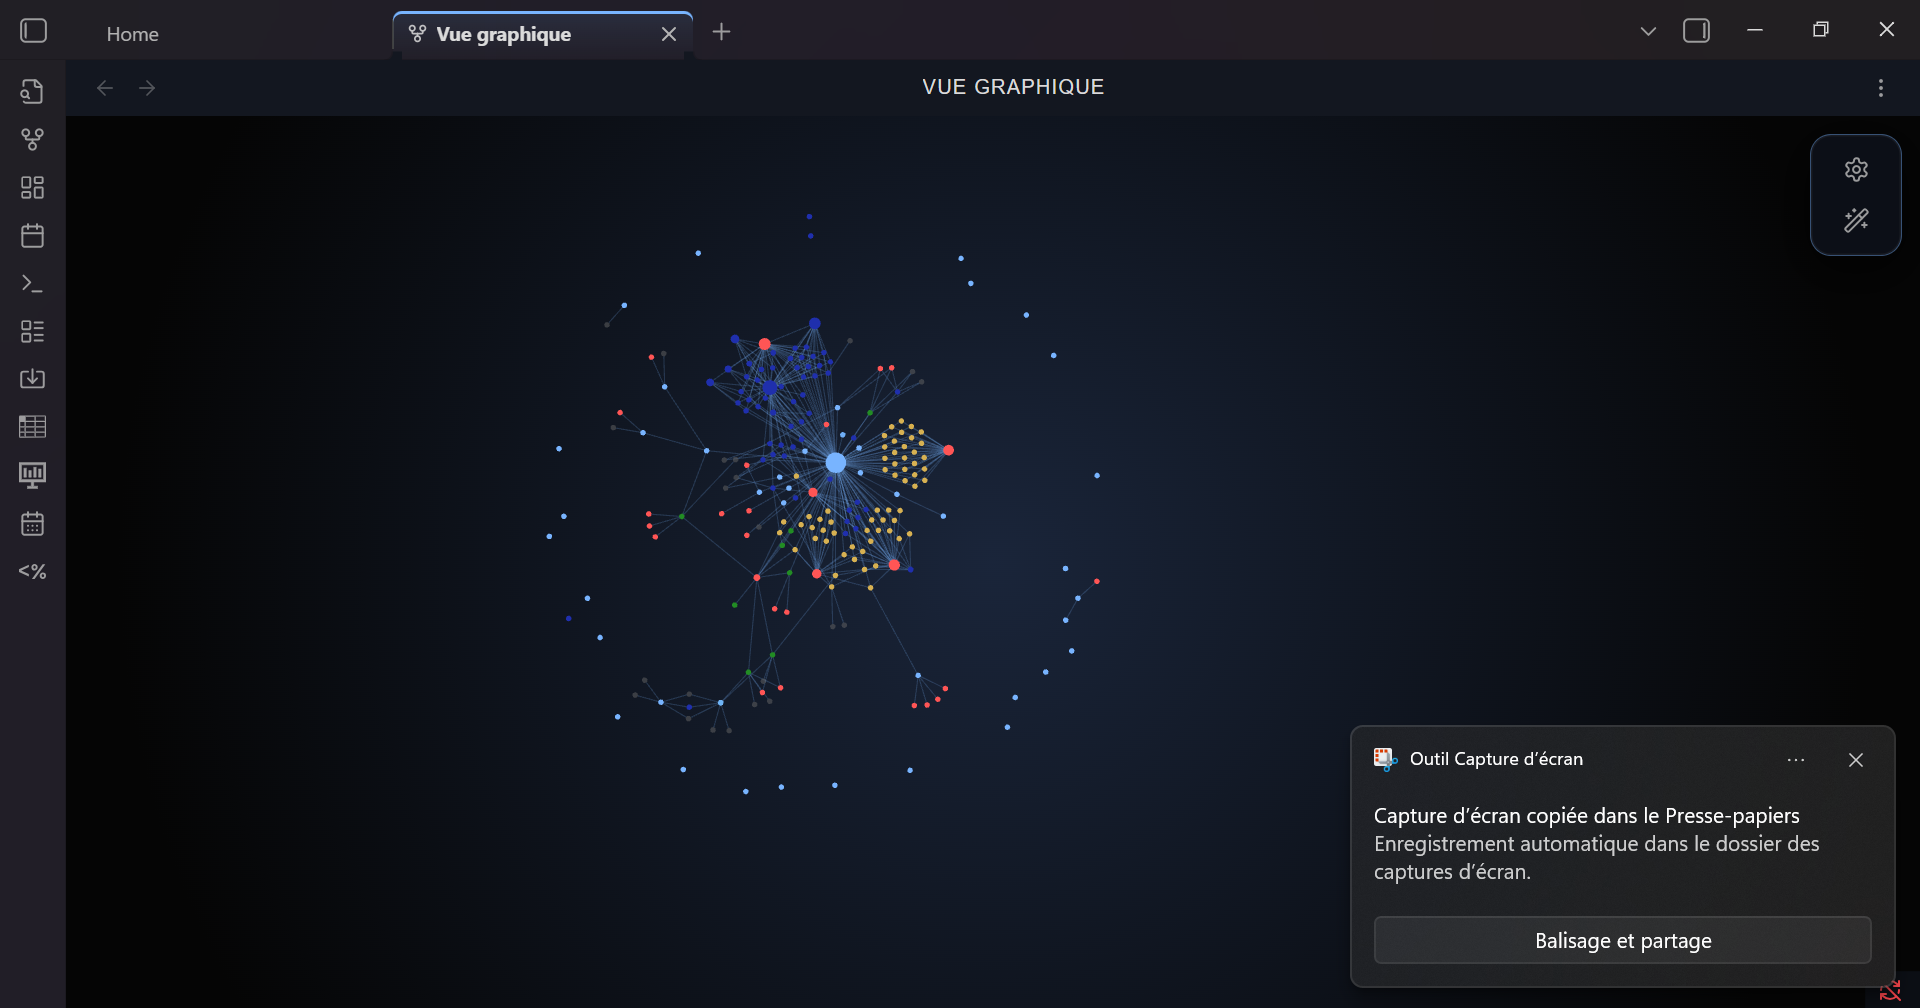
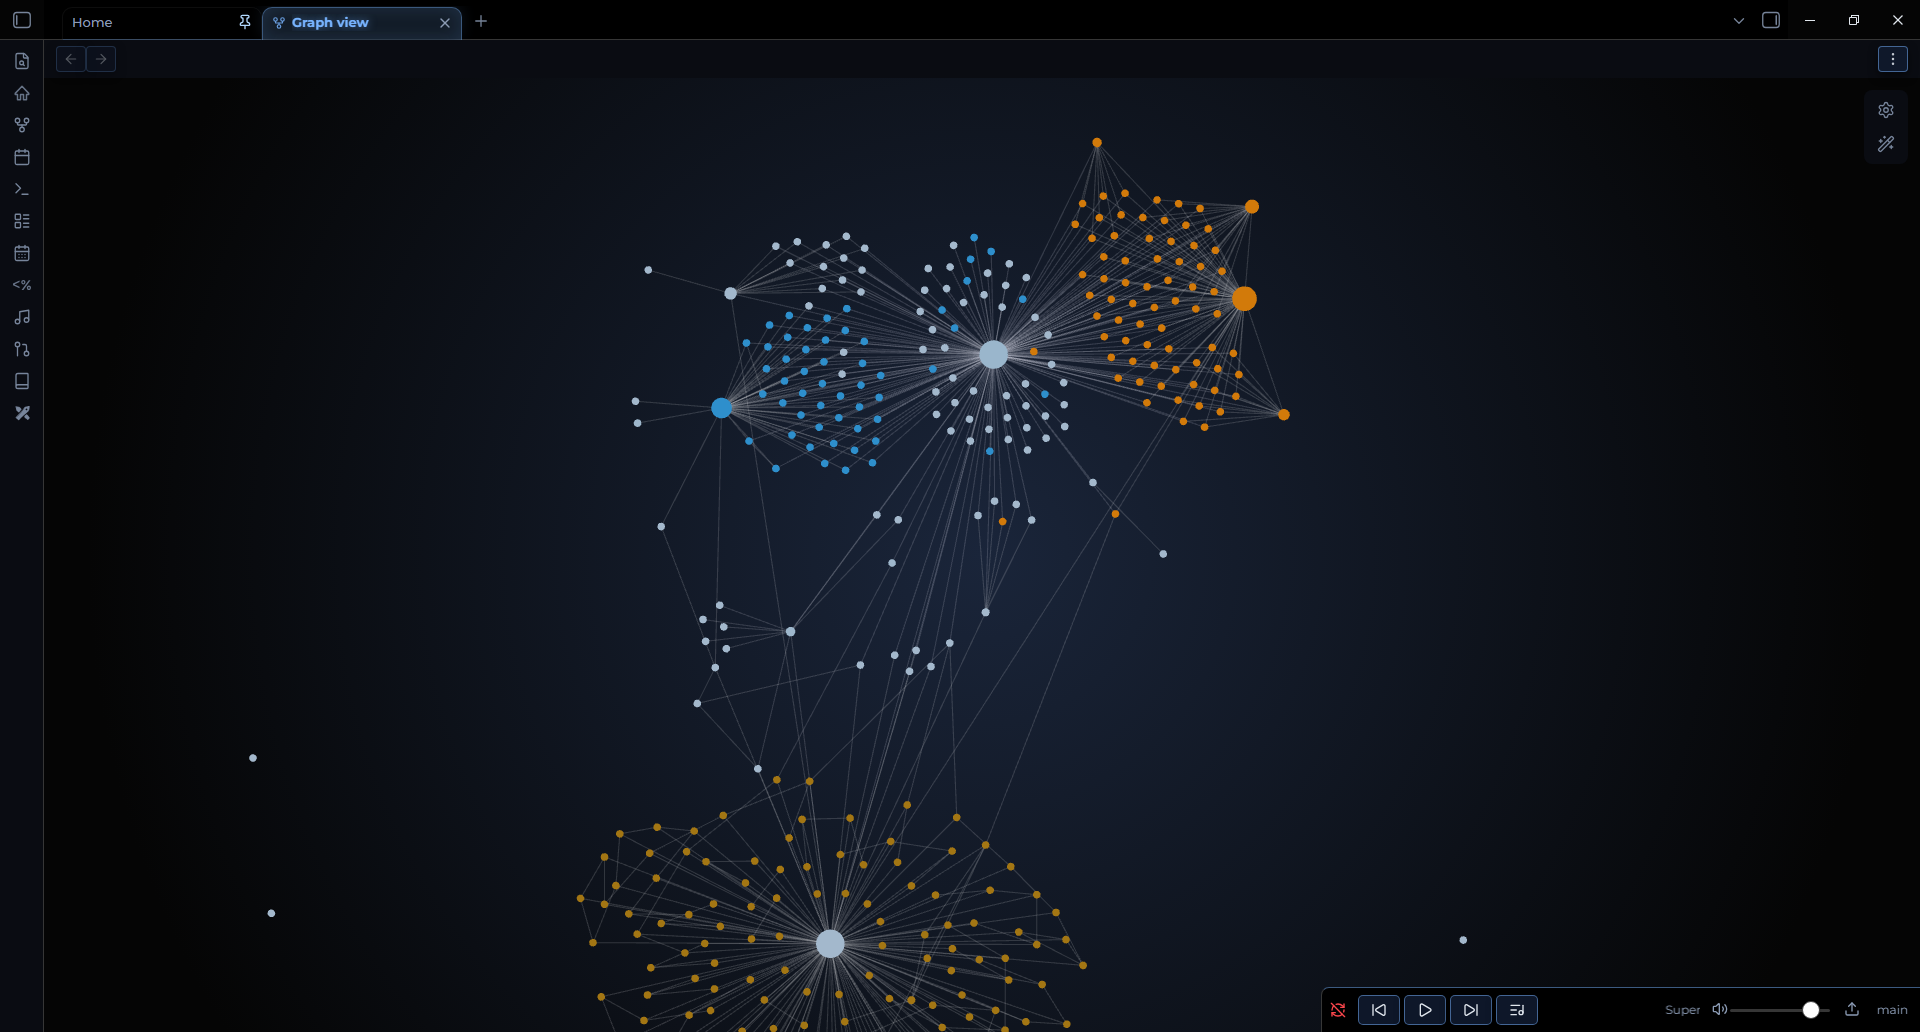
ASCII Art Addes in CSS Code.

diff --git a/theme.css b/theme.css
@@ -1,14 +1,22 @@
-/* =================================================================
-   🌌 GALAXY MASTER HUD - ULTIMATE EDITION (v3.5 - REBORN)
-   ================================================================= */
+/** ---------------------------------------------------------------
+**  ███╗   ██╗███████╗██████╗ ██╗   ██╗██╗     ██╗   ██╗██╗  ██╗
+**  ████╗  ██║██╔════╝██╔══██╗██║   ██║██║     ██║   ██║╚██╗██╔╝
+**  ██╔██╗ ██║█████╗  ██████╔╝██║   ██║██║     ██║   ██║ ╚███╔╝ 
+**  ██║╚██╗██║██╔══╝  ██╔══██╗██║   ██║██║     ██║   ██║ ██╔██╗ 
+**  ██║ ╚████║███████╗██████╔╝╚██████╔╝███████╗╚██████╔╝██╔╝ ██╗
+**  ╚═╝  ╚═══╝╚══════╝╚═════╝  ╚═════╝ ╚══════╝ ╚═════╝ ╚═╝  ╚═╝
+**  —— Version 1.0.0
+**  —— Made with ✨ by @Sikoso774
+**  —— Changes Log @see: https://github.com/Sikoso774/Nebulux/blob/main/CHANGELOG.md
+**  --------------------------------------------------------------- */
 
 /* @settings
-name: Galaxy Master HUD
-id: hud-galaxy-master
+name: Nebulux
+id: nebulux-hud
 settings:
     - 
         id: ui-title
-        title: 🖥️ Interface & Ambiance
+        title: 🖥️ Nebulux Interface
         type: heading
         level: 1
     - 
@@ -228,7 +236,7 @@ body {
     color: var(--text-muted) !important;
 }
 
-/* Ambiance Galaxy : Fond Radial Dynamique */
+/* Ambiance Nebulux : Fond Radial Dynamique */
 .workspace-leaf-content:not([data-type="excalidraw"]) .view-content,
 .markdown-reading-view {
     background: radial-gradient(circle at center, var(--bg-gradient-center) 0%, var(--bg-gradient-edge) 85%) !important;
@@ -240,7 +248,7 @@ body {
 }
 
 /* =================================================================
-   🎨 GALAXY TITLES : DÉGRADÉS H1 À H6 (CORRIGÉ)
+   🎨 NEBULUX TITLES : DÉGRADÉS H1 À H6 (CORRIGÉ)
    ================================================================= */
 
 /* 1. Base commune : Typographie et espacement */
@@ -785,7 +793,7 @@ body .markdown-rendered .task-list-item.is-checked {
 }
 
 /* =================================================================
-   6. EXPLORATEUR DE FICHIERS (GALAXIE NÉON DYNAMIQUE)
+   6. EXPLORATEUR DE FICHIERS (NÉBULEUSE NÉON DYNAMIQUE)
    ================================================================= */
 /* 🌟 Application explicite de la police pour garantir la stabilité */
 .nav-folder-title-content {

diff --git a/README.md b/README.md
@@ -1,48 +1,41 @@
-# 🌌 HUD Galaxy Theme for Obsidian
+# 🌌 Nebulux for Obsidian
 
-Un thème complet pour Obsidian inspiré des interfaces Sci-Fi (HUD), optimisé pour Windows 11.
-Ce projet transforme l'éditeur de texte en véritable cockpit de vaisseau spatial avec des effets de transparence (Glassmorphism), des animations néons et une gestion sonore immersive.
+A dark, immersive, and neon theme that transforms your Obsidian into a true interstellar cruiser dashboard. Designed for focus, immersion, and complex data management.
 
-![Graph View Screenshot](screenshot.png)
+![Nebulux Screenshot](screenshot.png)
 
-## 🚀 Fonctionnalités Clés
+## ✨ Key Features
 
-* **Glassmorphism Réel sur Windows :** Intégration avancée avec le moteur de rendu via *Pseudo Mica* pour contourner les limitations de transparence d'Electron sur Windows 11.
-* **Système de Couleurs Cyclique :** Utilisation de `:nth-child` et de variables CSS (`var(--color-nav)`) pour colorer automatiquement les dossiers et l'interface sans intervention manuelle.
-* **Graph View HUD :** Panneau de contrôle flottant entièrement transparent avec effets de flou (`backdrop-filter`) et accélération matérielle forcée (`transform: translateZ(0)`).
-* **Soundscapes Integration :** Support natif pour les ambiances sonores via ID YouTube.
+* 🖥️ **Sci-Fi Cockpit:** Darkened interface, futuristic fonts (Orbitron & Montserrat), and neon glow effects for optimal contrast.
+* 🔠 **Gradient Headers (H1-H6):** Dynamic headers with unique gradients (Stellar Glow, Neon Nav, Status Energy, etc.) to elegantly hierarchy your notes.
+* 🌫️ **Glassmorphism:** Dynamic transparency and background blur on active tabs and floating menus.
+* 📁 **Dynamic File Explorer:** Built-in "Rainbow Folders" effect to automatically colorize and visually differentiate your folders.
+* ⚙️ **Highly Customizable:** Full support for the *Style Settings* plugin.
 
-## 🛠️ Challenges Techniques & Solutions
+## 🚀 The 3 Pillars (Custom Callouts)
 
-### Le Bug du "Voile Gris" (Windows/Electron)
+The theme features a custom callout system tailored to structure your dashboards, based on a strict design language:
 
-Sur Windows, l'accélération matérielle désactive souvent le `backdrop-filter` sur les éléments flottants au-dessus du WebGL (Graph View), créant un fond gris opaque lors du focus.
+| Syntax | Render | Usage |
+| :--- | :--- | :--- |
+| `> [!nav]` | 🧭 **Neon Blue** | Navigation, Table of Contents, Dashboards. |
+| `> [!status]` | 📊 **Tactical Gold** | Tasks, Validations, Project Status. |
+| `> [!projects]`| 🚀 **Project Bronze**| Ideas, Ongoing projects, Warnings. |
 
-**Solution :**
-J'ai implémenté un correctif CSS hybride qui force la création d'une nouvelle couche de composition GPU tout en utilisant le plugin *Pseudo Mica* pour gérer la transparence au niveau de la fenêtre OS.
+### 🛠️ Icon Modifiers
+You can swap the default callout icon on the fly by adding a keyword after a slash `/` :
+* `> [!projects/brain]` 🧠 (Brainstorming Session)
+* `> [!status/bug]` 🐞 (Bug Report)
+* `> [!nav/clean]` (Removes the icon entirely for a minimalist look)
+* `> [!status/native]` (Forces the default Obsidian SVG icon)
 
-```css
-/* Extrait du code correctif */
-.graph-controls {
-    background-color: rgba(13, 17, 26, 0.60) !important;
-    backdrop-filter: blur(12px);
-    transform: translateZ(0); /* Force GPU Layer */
-    will-change: transform, backdrop-filter;
-}
-```
+## ⚙️ Installation & Configuration
 
-## 📦 Installation
+1. Search for **Nebulux** in the Obsidian Community Themes gallery and click "Install".
+2. In Obsidian, go to `Settings > Appearance` and select the theme.
+3. **Important:** Install the **Style Settings** community plugin to unlock all theme options (Neon colors, header gradients, blur intensity, etc.).
 
-1. Téléchargez le fichier `theme.css`.
-2. Placez-le dans `.obsidian/themes/HUD Galaxy Theme/`.
-3. Activez le thème dans les paramètres d'Obsidian.
-4. **Requis :** Installez le plugin "Style Settings" pour la configuration et "Pseudo Mica" pour la transparence.
-
-## 🎨 Personnalisation
-
-Le thème est entièrement configurable via des variables CSS exposées dans Style Settings :
--`--hud-blur`: Intensité du flou.
--`--color-nav`: Couleur principale (Défaut: Bleu Néon).
+*Note: To fully enjoy the Glassmorphism effect on the top bar, it is highly recommended to enable the "Hidden window frame" option in Obsidian's Appearance settings.*
 
 ---
-*Développé par Sikoso774*
+*Created by [Zoléni KOKOLO ZASSI](https://github.com/Sikoso774)*